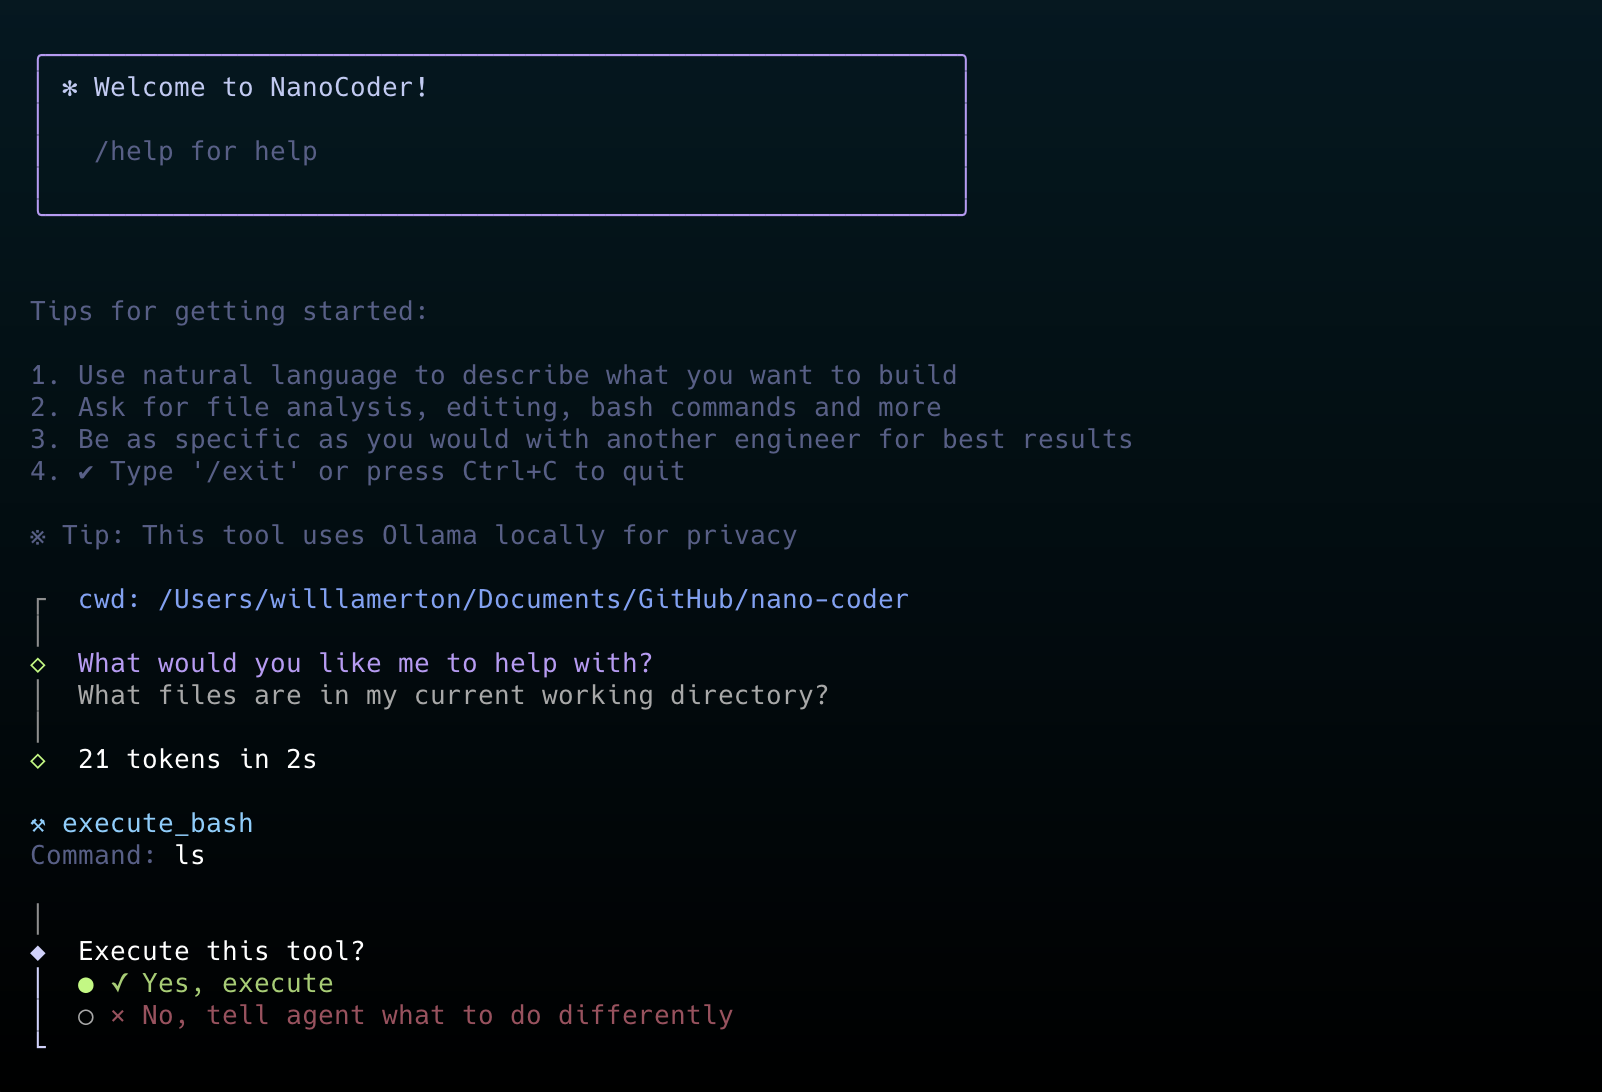
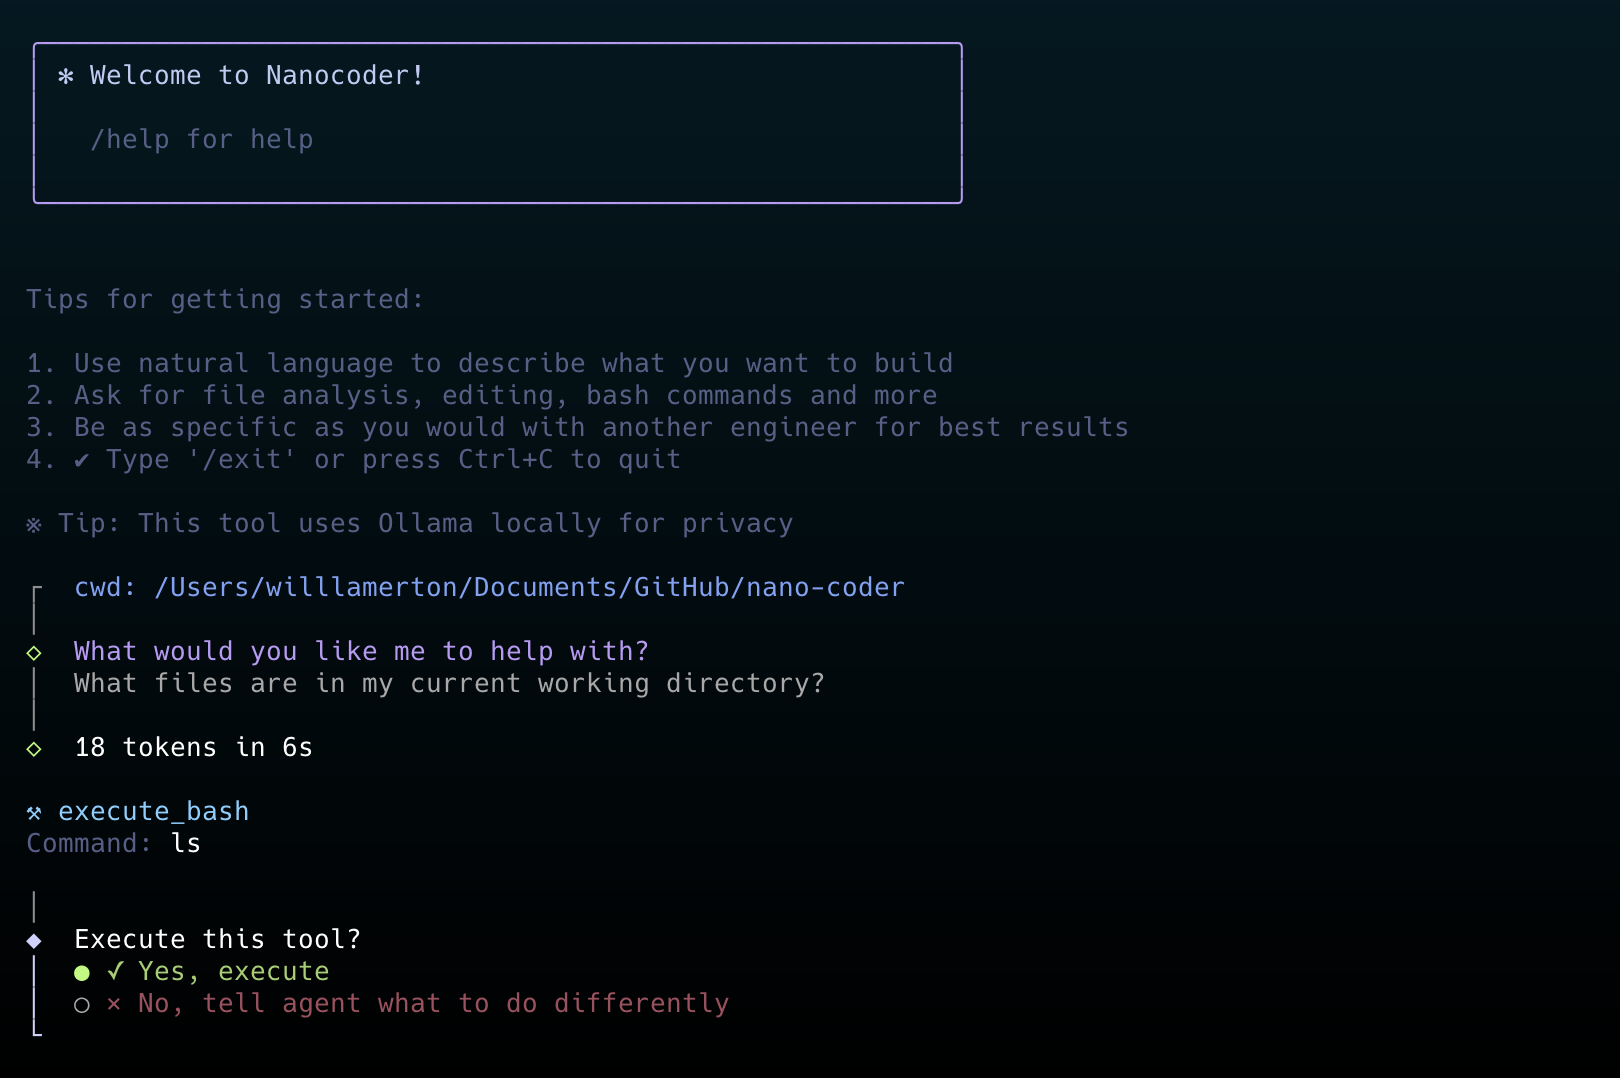
fix: name typos

diff --git a/src/ui/output.ts b/src/ui/output.ts
@@ -19,7 +19,7 @@ export function displayWelcome(): void {
   );
   console.log(
     primaryColor("│") +
-      whiteColor(" ✻ Welcome to NanoCoder!                                 ") +
+      whiteColor(" ✻ Welcome to Nanocoder!                                 ") +
       primaryColor("│")
   );
   console.log(
@@ -71,7 +71,11 @@ export function displayAssistantMessage(content: string, model?: string): void {
 
 export function displayToolCall(toolCall: ToolCall, result: ToolResult): void {
   const tokenCount = Math.ceil((result.content?.length || 0) / 4);
-  p.log.info(`${toolColor(`⚒ ${toolCall.function.name}`)} executed • ${tokenCount} tokens`);
+  p.log.info(
+    `${toolColor(
+      `⚒ ${toolCall.function.name}`
+    )} executed • ${tokenCount} tokens`
+  );
 }
 
 let currentSpinner: ReturnType<typeof p.spinner> | null = null;

diff --git a/src/core/openrouter-client.ts b/src/core/openrouter-client.ts
@@ -105,7 +105,7 @@ export class OpenRouterClient implements LLMClient {
         headers: {
           Authorization: `Bearer ${this.apiKey}`,
           "Content-Type": "application/json",
-          "X-Title": "NanoCoder",
+          "X-Title": "Nanocoder",
         },
         body: JSON.stringify(requestBody),
       }
@@ -179,7 +179,7 @@ export class OpenRouterClient implements LLMClient {
         headers: {
           Authorization: `Bearer ${this.apiKey}`,
           "Content-Type": "application/json",
-          "X-Title": "NanoCoder",
+          "X-Title": "Nanocoder",
         },
         body: JSON.stringify(requestBody),
       }

diff --git a/src/core/commands/help.ts b/src/core/commands/help.ts
@@ -25,7 +25,7 @@ export const helpCommand: Command = {
             .join("\n");
 
     borderedContent(
-      `NanoCoder ${packageJson.version}`,
+      `Nanocoder ${packageJson.version}`,
       `
 A local-first CLI coding agent that brings the power of agentic coding tools like Claude Code and Gemini CLI to local models or controlled APIs like OpenRouter.
 
